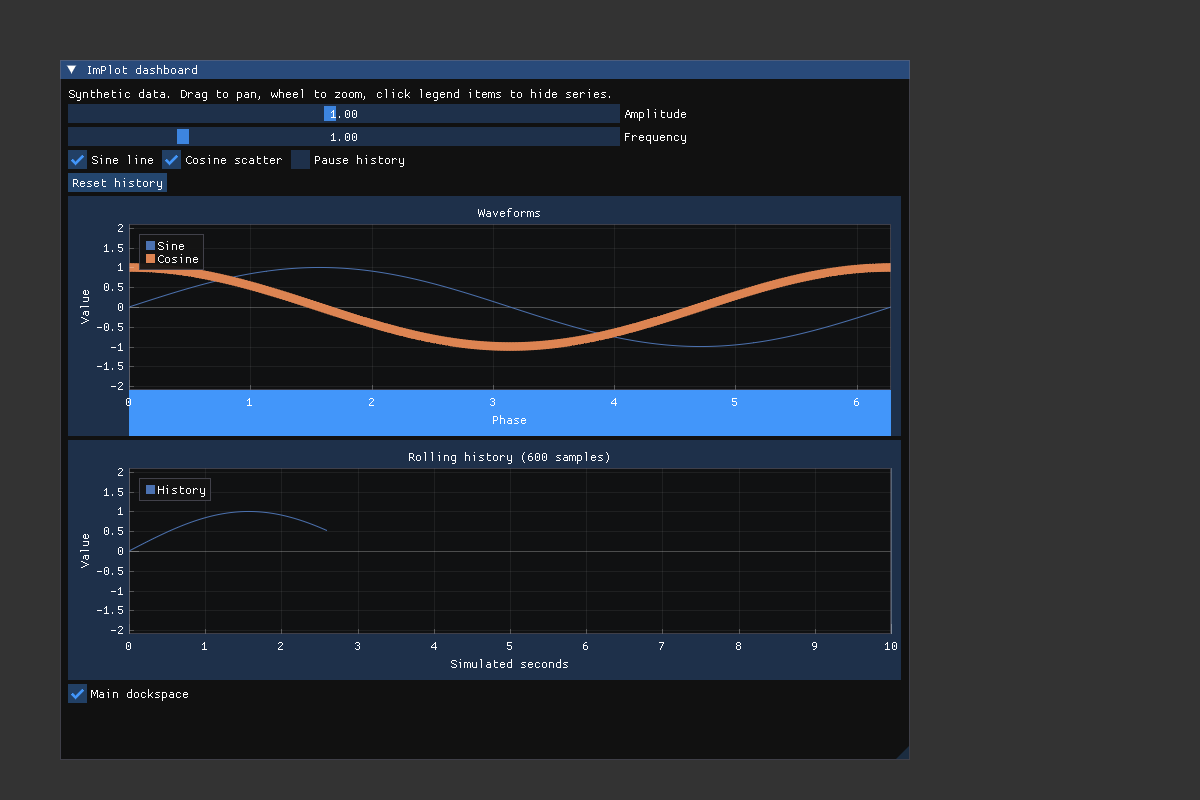
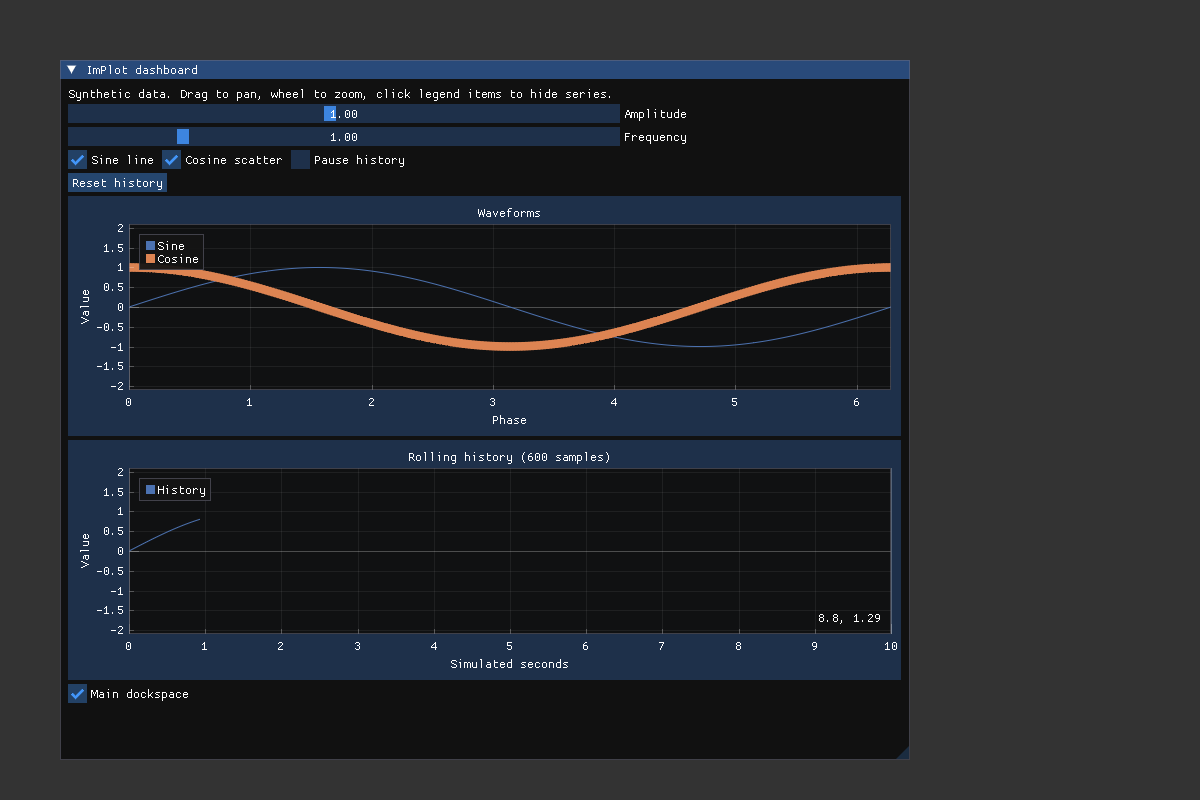
Show current previews in all example READMEs (#49)

Changed region(s): [[0.0925, 0.4688, 0.74, 0.5625]]

diff --git a/examples/implot_dashboard/README.md b/examples/implot_dashboard/README.md
@@ -1,5 +1,9 @@
 # ImPlot dashboard
 
+![ImPlot dashboard showing sine and cosine waves and their rolling history](screenshot.png)
+
+The dashboard plots the live sine and cosine samples above the rolling history.
+
 From the repository root:
 
 ```sh
@@ -23,5 +27,3 @@ CI renders 660 frames to exercise wraparound.
 Change amplitude/frequency, toggle each series, hide series through the legend,
 pan/zoom the waveforms, pause/resume history and reset it. The history plot keeps
 its axes locked to the latest ten simulated seconds.
-
-![implot dashboard](screenshot.png)

diff --git a/examples/widget_gallery/README.md b/examples/widget_gallery/README.md
@@ -1,5 +1,9 @@
 # Widget gallery
 
+![Widget gallery with text input, sliders, a combo box and a table](screenshot.png)
+
+The raw widget view shows editable controls and a table.
+
 From the repository root:
 
 ```sh
@@ -17,8 +21,6 @@ bytes plus its terminator.
 Type a name and open Details; change controls; open/close the popup and Details;
 resize table columns; toggle the upstream demo. Docking is optional and the same
 source runs against the standard ImGui variant.
-
-![widget gallery](screenshot.png)
 
 ## Accessible release view
 

diff --git a/examples/audio_playground/README.md b/examples/audio_playground/README.md
@@ -1,5 +1,9 @@
 # Audio playground
 
+![Audio playground with sound position, playback controls and the V call](screenshot.png)
+
+Drag the sound around the listener to update its position and see the corresponding V call.
+
 A native spatial-audio demonstration of [`antono2.audio`](https://github.com/antono2/audio),
 using `antono2.imgui`, `antono2.glfw` and `antono2.vulkan` for its desktop interface.
 Move the sound around the listener, change volume and see the corresponding V call.

diff --git a/examples/android_touch/README.md b/examples/android_touch/README.md
@@ -1,5 +1,9 @@
 # Android touch and text
 
+![Android touch and text demo after tapping the counter](screenshot.png)
+
+The Android demo shows a tap counter, editable text and clipboard controls.
+
 The V UI reuses the pinned upstream NativeActivity/Vulkan host, Java input
 bridge and FreeType font. It has its own package ID,
 `io.antono2.vimgui.examples.touch`, so it can coexist with upstream's demo.

diff --git a/examples/glfw_vulkan/README.md b/examples/glfw_vulkan/README.md
@@ -1,5 +1,9 @@
 # GLFW/Vulkan host and default demo
 
+![GLFW and Vulkan host with example controls and the Dear ImGui demo](screenshot.png)
+
+The docking build opens with the example controls and the Dear ImGui demo window.
+
 From the repository root:
 
 ```sh
